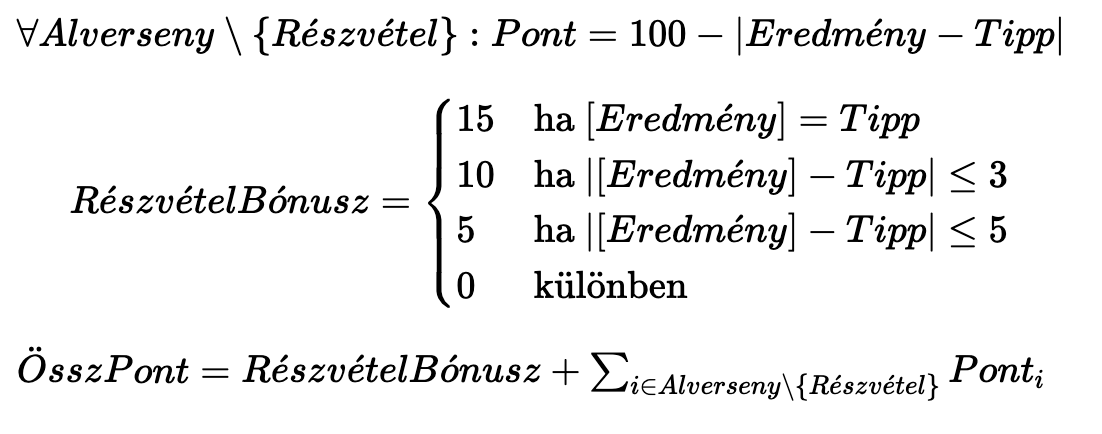
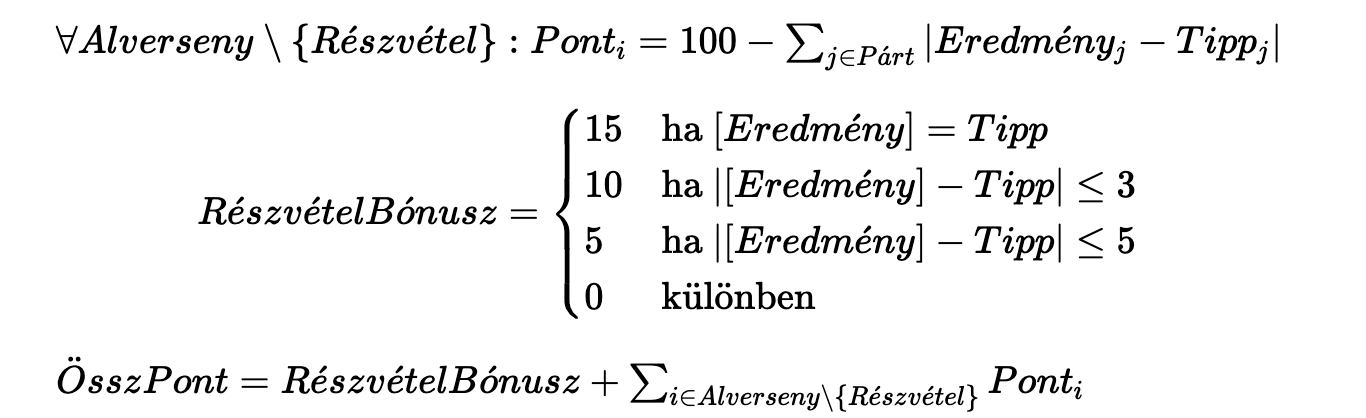
calc fix

Changed region(s): [[0.0617, 0.2177, 0.9256, 0.7464], [0.0, 0.8086, 0.9564, 0.9952], [0.0, 0.0311, 0.9564, 0.1555]]

diff --git a/src/pages/Welcome.tsx b/src/pages/Welcome.tsx
@@ -141,15 +141,15 @@ export const Welcome = () => {
           src="/calc.png"
           alt="calc"
           style={{
-            maxWidth: "430px",
-            width: "98%",
+            maxWidth: "470px",
+            width: "100%",
           }}
         />
 
         {/*<Box sx={{}}>
           <InlineMath
             math={
-              "\\forall Alverseny \\setminus \\{Részvétel\\}: Pont = 100 - |Eredmény - Tipp|"
+              "\\forall Alverseny \\setminus \\{Részvétel\\}: Pont_i = 100 - \\sum_{j \\in Párt} |Eredmény_j - Tipp_j|"
             }
           />{" "}
           <BlockMath

diff --git a/src/components/Map.tsx b/src/components/Map.tsx
@@ -22,6 +22,7 @@ export const Map: React.FC<MapProps> = ({ percentage }) => {
       <Box
         sx={{
           height: `${height}px`,
+          width: "99%",
           paddingTop: `${baseHeight - height}px`,
           position: "relative",
           overflow: "hidden",
